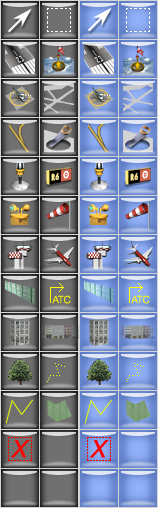
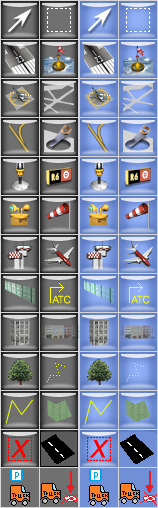
proof of concept: Obj replacement for certain truck types. Menu items have been added and integrated, related obj placements get replaced with TruckParkingLocations. Currently the name given to them is a generic "Truck Parking X".

Changed region(s): [[0.0, 0.8268, 0.7342, 1.0], [0.7595, 0.8268, 0.9873, 1.0]]

diff --git a/src/WEDWindows/WED_GroupCommands.cpp b/src/WEDWindows/WED_GroupCommands.cpp
@@ -43,11 +43,13 @@
 #include "ILibrarian.h"
 #include "WED_MapZoomerNew.h"
 #include "WED_OverlayImage.h"
+#include "WED_ObjPlacement.h"
 #include "WED_AirportChain.h"
 #include "WED_TextureNode.h"
 #include "WED_Airport.h"
 #include "XESConstants.h"
 #include "WED_TaxiRouteNode.h"
+#include "WED_TruckParkingLocation.h"
 #include "WED_RoadNode.h"
 #include "WED_ObjPlacement.h"
 #include "WED_LibraryMgr.h"
@@ -2014,6 +2016,212 @@ int		WED_Repair(IResolver * resolver)
 	WED_SetAnyAirport(resolver);
 	root->CommitOperation();
 	return 1;
+}
+
+bool FindRecursive(WED_Thing* thing)
+{
+	WED_ObjPlacement* obj_placement = dynamic_cast<WED_ObjPlacement*>(thing);
+	
+	if(obj_placement != NULL)
+	{
+		return true;
+	}
+	
+	int nc = thing->CountChildren();
+	for(int n = 0; n < nc; ++n)
+	{
+		bool answer = FindRecursive(thing->GetNthChild(n));
+		if(answer == true)
+		{
+			return true;
+		}
+		else
+		{
+			continue;
+		}
+	}
+	return false;
+}
+
+template <typename OutputIterator>
+void CollectRecursive(WED_Thing * thing, OutputIterator oi)
+{
+	// TODO: do fast WED type ptr check on sClass before any other casts?
+	// Factor out WED_Entity check to avoid second dynamic cast?
+	WED_Entity * ent = dynamic_cast<WED_Entity*>(thing);
+	if(ent && ent->GetHidden())
+	{
+		return;
+	}
+	
+	typedef typename OutputIterator::container_type::value_type VT;
+	VT ct = dynamic_cast<VT>(thing);
+	bool took_it = false;
+	if(ct)
+	{	
+		oi = ct;
+		took_it = true;
+	}
+	
+	if(!took_it)
+	{
+		int nc = thing->CountChildren();
+		for(int n = 0; n < nc; ++n)
+		{
+			CollectRecursive(thing->GetNthChild(n), oi);
+		}
+	}
+}
+
+#include <iostream>
+#include <sstream>
+
+int		WED_CanReplaceObj(IResolver* resolver)
+{
+	//Returns true if there are any Obj files in the world.
+	WED_Thing * root = WED_GetWorld(resolver);
+	return FindRecursive(root);
+}
+
+void	WED_DoReplaceObj(IResolver* resolver)
+{
+	WED_Thing * root = WED_GetWorld(resolver);
+	vector<WED_ObjPlacement*> obj_placements;
+	CollectRecursive(root, back_inserter(obj_placements));
+
+	if(!obj_placements.empty())
+	{
+		int replace_count = 0;
+		root->StartOperation("Replace Objects");
+		for(vector<WED_ObjPlacement*>::iterator itr = obj_placements.begin(); itr != obj_placements.end(); ++itr)
+		{
+			string resource;
+			(*itr)->GetResource(resource);
+			if(
+				resource == "lib/airport/Common_Elements/vehicles/Small_Fuel_Truck.obj"	||
+				resource == "lib/airport/Common_Elements/vehicles/Large_Fuel_Truck.obj"	||
+				resource == "lib/airport/Ramp_Equipment/Belt_Loader.obj"				||
+				resource == "lib/airport/Ramp_Equipment/Tow_Tractor_1.obj"				||
+				resource == "lib/airport/Ramp_Equipment/Tow_Tractor_1.obj"				||
+				resource == "lib/airport/Ramp_Equipment/Tow_Tractor_1.obj"				||
+				resource == "lib/airport/Ramp_Equipment/Lugg_Train_Straight1.obj"		||
+				resource == "lib/airport/Ramp_Equipment/Lugg_Train_Straight2.obj"		||
+				resource == "lib/airport/Ramp_Equipment/Lugg_Train_Straight3.obj"		||
+				resource == "lib/airport/Ramp_Equipment/Lugg_Train_Straight4.obj"		||
+				resource == "lib/airport/Ramp_Equipment/Lugg_Train_Straight5.obj"		||
+				resource == "lib/airport/Ramp_Equipment/Lugg_Train_Straight.obj"		||
+				resource == "lib/airport/Ramp_Equipment/Luggage_Truck.obj"				||
+				resource == "lib/airport/Ramp_Equipment/Tow_Tractor_2.obj"				||
+				resource == "lib/airport/Ramp_Equipment/Tug660_Dn_1.obj"				||
+				resource == "lib/airport/Ramp_Equipment/Tug660_Up_1.obj")
+			{
+				replace_count++;
+				
+				int idx;
+				WED_Thing * host = WED_GetCreateHost(resolver, true, true, idx);
+
+				WED_GISPoint * new_pt_obj = NULL;
+				WED_GISPoint_Heading * new_pt_h = NULL;
+
+				WED_TruckParkingLocation * parking_loc;
+				new_pt_obj = new_pt_h = parking_loc = WED_TruckParkingLocation::CreateTyped(root->GetArchive());
+			
+				Point2 p;
+				(*itr)->GetLocation(gis_Geo, p);
+				new_pt_obj->SetLocation(gis_Geo,p);
+				new_pt_h->SetHeading((*itr)->GetHeading());
+
+				static int n = 0;
+				static int h = 0;
+				new_pt_obj->SetParent(host, idx);
+				stringstream ss;
+				ss << "Truck Parking Location " << replace_count;
+				new_pt_obj->SetName(ss.str());
+
+
+				//WED_Thing* parent = WED_GetCreateHost(resolver, true, true, idx);
+
+				//WED_TruckParkingLocation* parking_loc = WED_TruckParkingLocation::CreateTyped(root->GetArchive());
+				//parking_loc->SetHeading((*itr)->GetHeading());
+			
+				//
+				//parking_loc->SetLocation(gis_Geo, p);
+
+				//parking_loc->SetParent(parent,idx);//(*itr)->GetMyPosition());
+			
+				if(resource == "lib/airport/Common_Elements/vehicles/Small_Fuel_Truck.obj")
+				{
+					parking_loc->SetNumberOfCars(1);
+					parking_loc->SetTruckType(atc_ServiceTruck_FuelTruck_Prop);
+				}
+				else if(resource == "lib/airport/Common_Elements/vehicles/Large_Fuel_Truck.obj")
+				{
+					parking_loc->SetNumberOfCars(1);
+					parking_loc->SetTruckType(atc_ServiceTruck_FuelTruck_Jet);
+				}
+				else if(resource == "lib/airport/Ramp_Equipment/Belt_Loader.obj")
+				{
+					parking_loc->SetNumberOfCars(1);
+					parking_loc->SetTruckType(atc_ServiceTruck_Baggage_Loader);
+				}
+				else if(resource == "lib/airport/Ramp_Equipment/Tow_Tractor_1.obj" ||
+						resource == "lib/airport/Ramp_Equipment/Tow_Tractor_2.obj")
+				{
+					parking_loc->SetNumberOfCars(resource[resource.find_first_of('.')-1]-'0');
+					parking_loc->SetTruckType(atc_ServiceTruck_Pushback);
+				}
+				else if(resource == "lib/airport/Ramp_Equipment/Lugg_Train_Straight1.obj" ||
+						resource == "lib/airport/Ramp_Equipment/Lugg_Train_Straight2.obj" ||
+						resource == "lib/airport/Ramp_Equipment/Lugg_Train_Straight3.obj" ||
+						resource == "lib/airport/Ramp_Equipment/Lugg_Train_Straight4.obj" ||
+						resource == "lib/airport/Ramp_Equipment/Lugg_Train_Straight5.obj" ||
+						resource == "lib/airport/Ramp_Equipment/Lugg_Train_Straight.obj"  ||
+						resource == "lib/airport/Ramp_Equipment/Luggage_Truck.obj")
+				{
+					parking_loc->SetNumberOfCars(resource[resource.find_first_of('.')-1]-'0');
+					parking_loc->SetTruckType(atc_ServiceTruck_Baggage_Train);
+				}
+				else if(resource == "lib/airport/Ramp_Equipment/Tug660_Dn_1.obj" ||
+						resource == "lib/airport/Ramp_Equipment/Tug660_Up_1.obj")
+				{
+					parking_loc->SetNumberOfCars(1);
+				}
+
+
+					//Ground truck
+					/*if(
+			ENUM_DOMAIN(ATCServiceTruckType,"Service Truck Type")
+				ENUM(atc_ServiceTruck_Pushback,				"Pushback",				apt_truck_pushback)
+				ENUM(atc_ServiceTruck_FuelTruck_Prop,		"Fuel Truck (Props)",	apt_truck_fuel_prop)
+				ENUM(atc_ServiceTruck_FuelTruck_Jet,		"Fuel Truck (Jets)",	apt_truck_fuel_jet)
+				ENUM(atc_ServiceTruck_Food,					"Catering Truck",		apt_truck_food)
+				ENUM(atc_ServiceTruck_Baggage_Train,		"Baggage Train",		apt_truck_baggage_train)
+				ENUM(atc_ServiceTruck_Baggage_Loader,		"Baggage Loader",		apt_truck_baggage_loader)
+				ENUM(atc_ServiceTruck_Crew_Car,				"Crew Car",				apt_truck_crew_car)
+				ENUM(atc_ServiceTruck_Ground_Power_Unit,	"Ground Power Unit",	apt_truck_ground_power_unit)
+				*/
+				set<WED_Thing*> delete_set;
+				delete_set.insert(*itr);
+				WED_RecursiveDelete(delete_set);
+			}
+		}
+
+		std::cout << "Replace count: " << replace_count << endl;
+		if(replace_count == 0)
+		{
+			DoUserAlert("Nothing to replace");
+			root->AbortOperation();
+		}
+		else
+		{
+			root->CommitOperation();
+		}
+	}
+	else
+	{
+		DoUserAlert("Nothing to replace");
+		//DebugAssert(true); //Can should only return 1 for if there are the right objects
+	}
 }
 
 //---------------------------------------------------------------------------------------------------

diff --git a/src/WEDWindows/WED_DocumentWindow.cpp b/src/WEDWindows/WED_DocumentWindow.cpp
@@ -351,7 +351,7 @@ int	WED_DocumentWindow::HandleCommand(int command)
 	case wed_MovePrev:	WED_DoReorder(mDocument,-1,0);	return 1;
 	case wed_MoveNext:	WED_DoReorder(mDocument, 1,0);	return 1;
 	case wed_MoveLast:	WED_DoReorder(mDocument, 1,1);	return 1;
-
+	case wed_ReplaceObj: WED_DoReplaceObj(mDocument); return 1;
 	case wed_AddATCFreq:WED_DoMakeNewATCFreq(mDocument); return 1;
 #if AIRPORT_ROUTING
 	case wed_AddATCFlow: WED_DoMakeNewATCFlow(mDocument); return 1;
@@ -479,7 +479,7 @@ int	WED_DocumentWindow::CanHandleCommand(int command, string& ioName, int& ioChe
 	case wed_MovePrev:	return WED_CanReorder(mDocument,-1,0);
 	case wed_MoveNext:	return WED_CanReorder(mDocument, 1,0);
 	case wed_MoveLast:	return WED_CanReorder(mDocument, 1,1);
-
+	case wed_ReplaceObj: return WED_CanReplaceObj(mDocument);
 	case gui_Save:		return mDocument->IsDirty();
 	case gui_Revert:	return mDocument->IsDirty() && mDocument->IsOnDisk();
 

diff --git a/src/WEDWindows/WED_Menus.cpp b/src/WEDWindows/WED_Menus.cpp
@@ -114,6 +114,7 @@ static const GUI_MenuItem_t	kEditMenu[] = {
 {	"&Move Up",				'[',	gui_ControlFlag,				0,	wed_MovePrev	},
 {	"Move Do&wn",			']',	gui_ControlFlag,				0,	wed_MoveNext	},
 {	"Move &Last",			']',	gui_ControlFlag+gui_ShiftFlag,	0,	wed_MoveLast	},
+{	"Replace Vehicle Objects", 0,	0,								0,  wed_ReplaceObj	},
 {	NULL,					0,		0,								0,	0				},
 };
 

diff --git a/src/WEDWindows/WED_GroupCommands.h b/src/WEDWindows/WED_GroupCommands.h
@@ -110,6 +110,9 @@ void	WED_DoMoveSelectionTo(IResolver * resolver, WED_Thing * dest, int dest_slot
 
 int		WED_Repair(IResolver * resolver);
 
+int		WED_CanReplaceObj(IResolver* resolver);
+void	WED_DoReplaceObj(IResolver* resolver);
+
 void WED_UpgradeRampStarts(IResolver * resolver);
 
 #endif /* WED_GroupCommands_H */

diff --git a/src/WEDWindows/WED_Menus.h b/src/WEDWindows/WED_Menus.h
@@ -76,6 +76,7 @@ enum {
 	wed_MovePrev,
 	wed_MoveNext,
 	wed_MoveLast,
+	wed_ReplaceObj,
 	// Pavement menu
 	wed_Pavement0,
 	wed_Pavement25,
